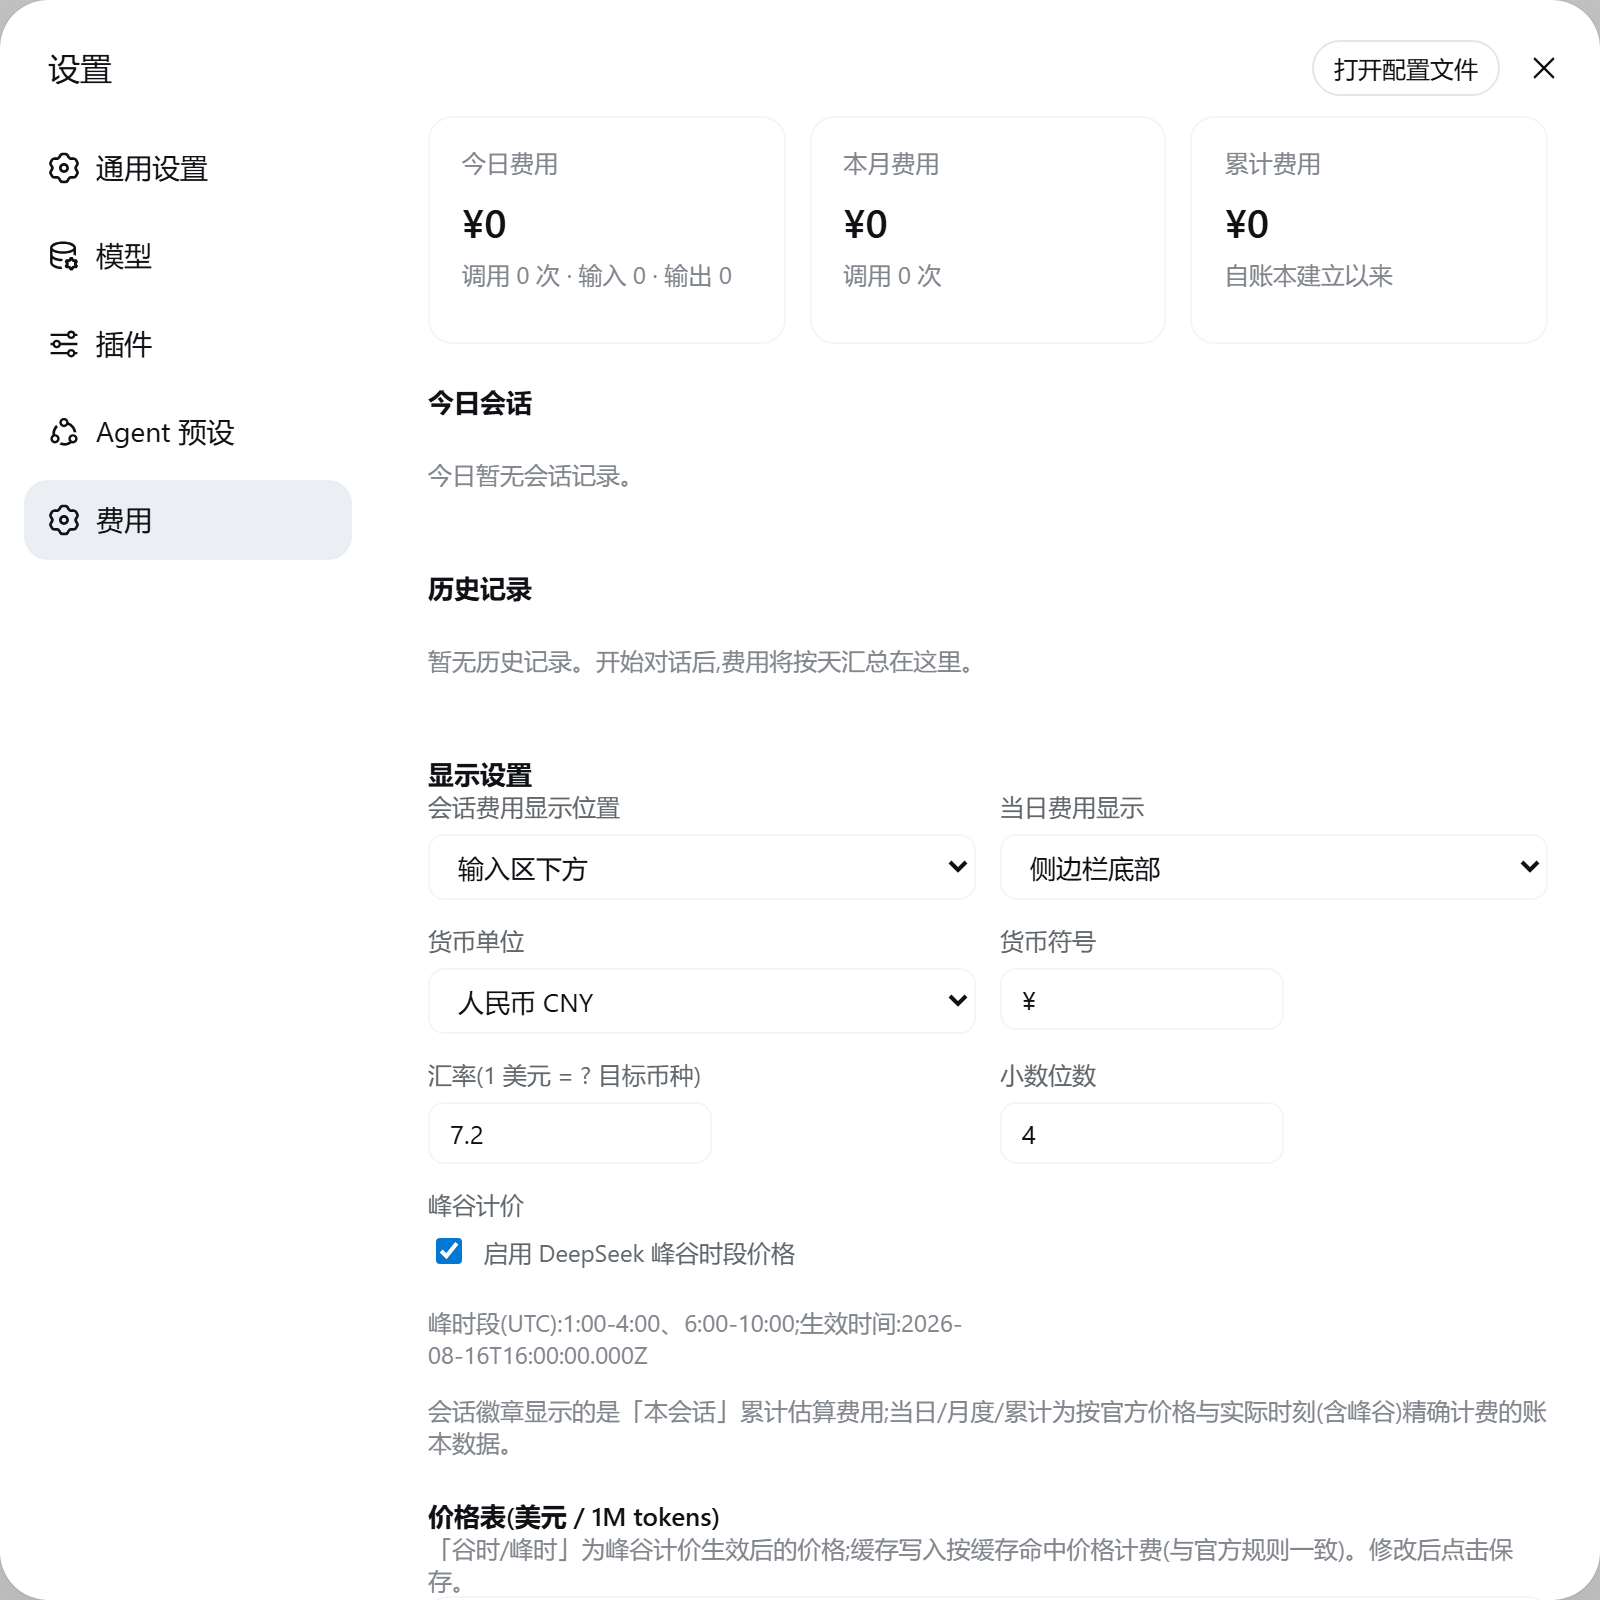
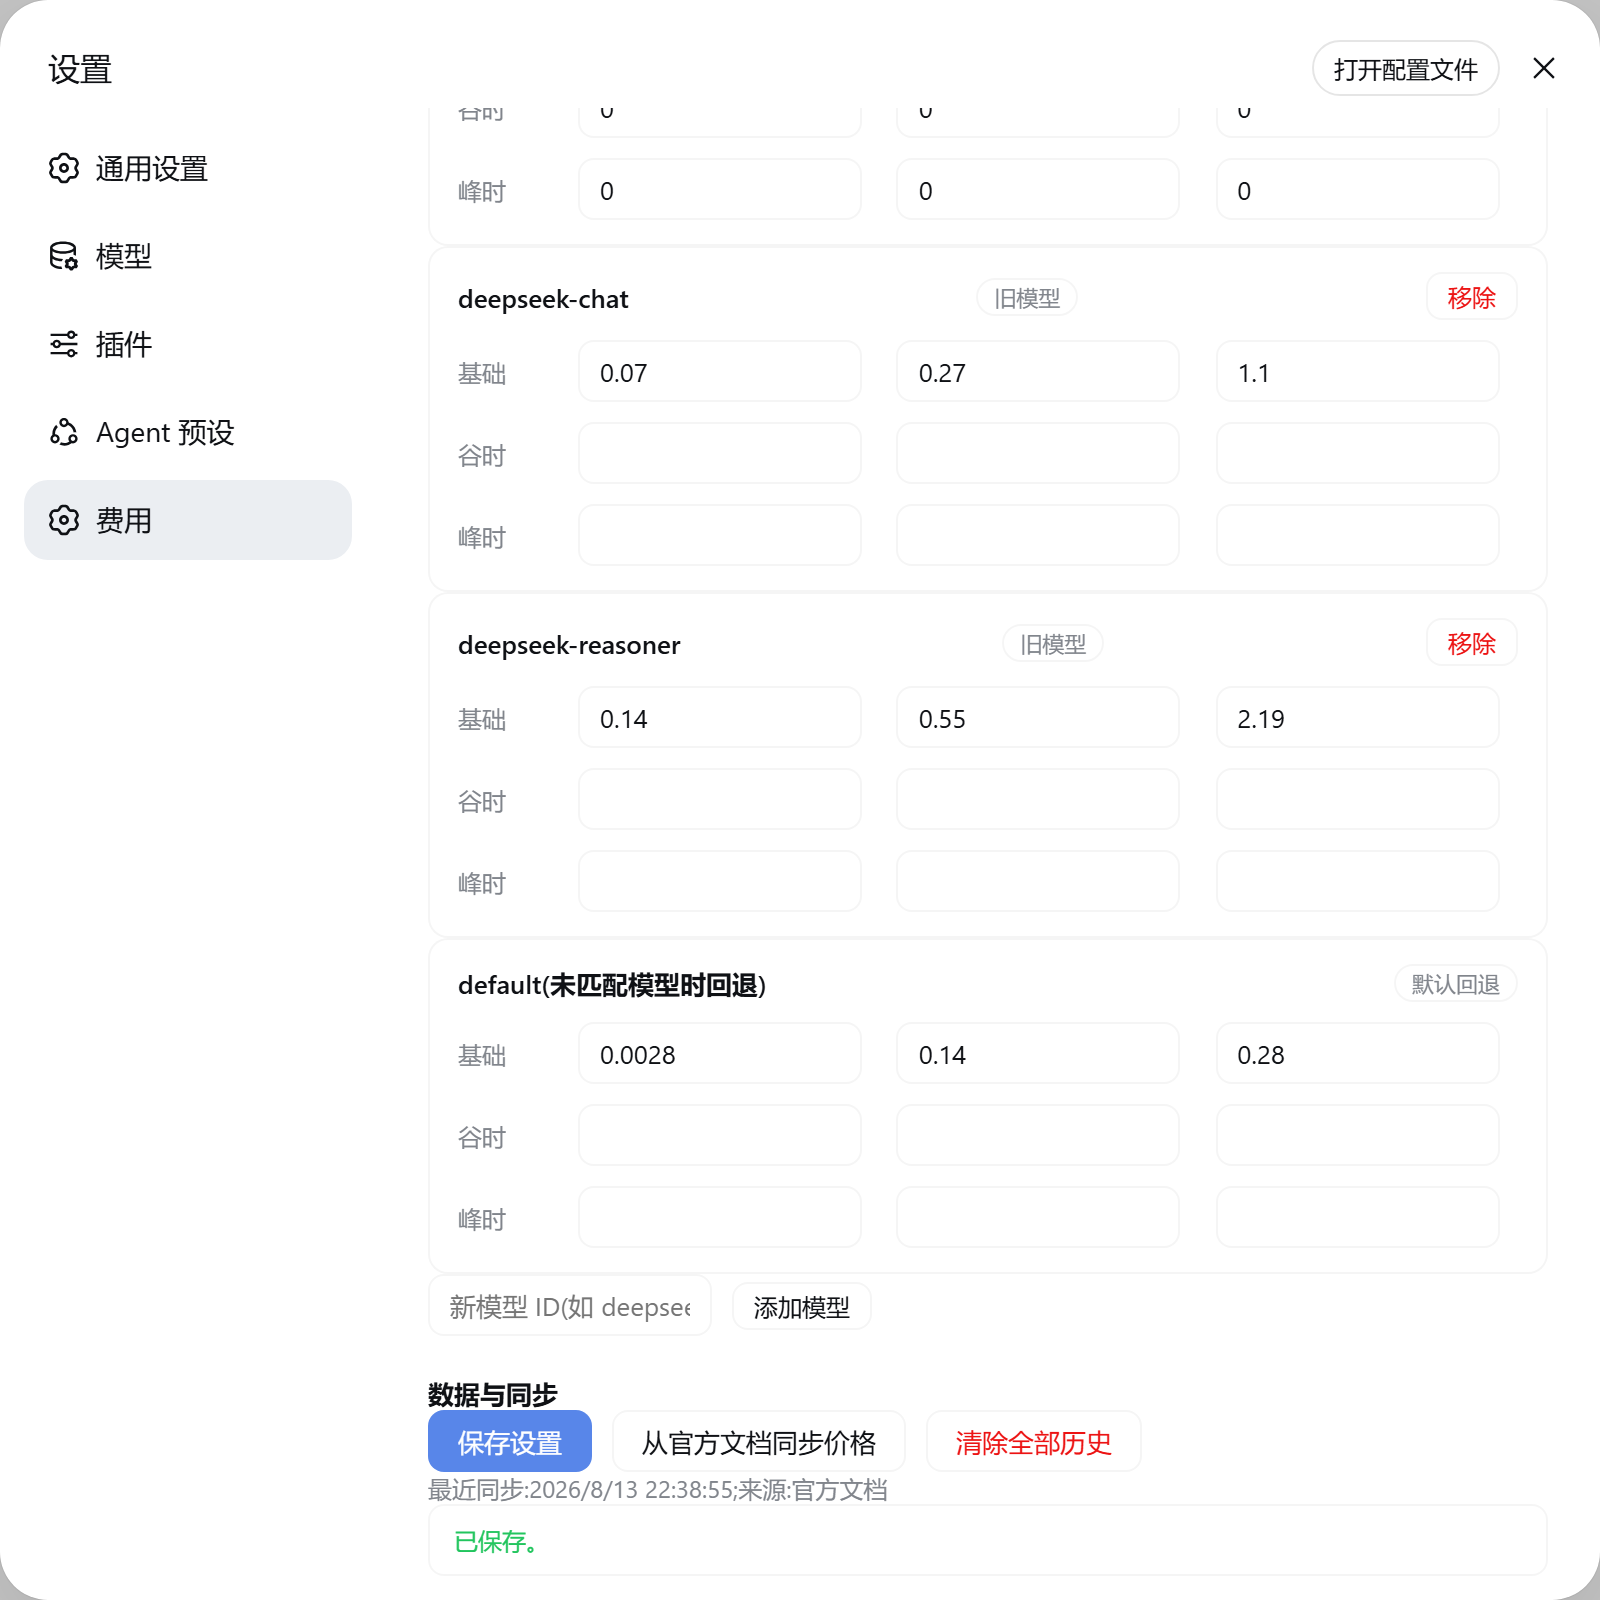
feat: 预算面板与 token 分项显示(v0.2.0)
- 设置页顶部新增预算面板:启用开关、额度(按显示币种)、周期(今日/本月/累计),
  已用金额与已用%进度条,>=80% 预警、>=100% 超支
- 输入/缓存/输出 token 在卡片、侧边栏提示、会话徽章、历史表中分开显示
- 缓存读写按命中价计费,界面显式标注
- 更新 README/CHANGELOG 与截图,版本升至 0.2.0

diff --git a/lib/client.js b/lib/client.js
@@ -74,7 +74,16 @@ window.__ModuleLoader__.load({
       '.cm-msg.ok{color:var(--dsw-alias-state-success-primary)}',
       '.cm-msg.err{color:var(--dsw-alias-state-error-primary)}',
       '.cm-hint{font-size:12px;color:var(--dsw-alias-label-tertiary)}',
-      '@media (max-width:640px){.cm-cards{grid-template-columns:1fr}.cm-grid{grid-template-columns:1fr}}',
+      '.cm-budget{border:1px solid var(--dsw-alias-border-l1);border-radius:12px;padding:14px 16px;background:var(--dsw-alias-bg-layer-1);display:flex;flex-direction:column;gap:10px}',
+      '.cm-budget-head{display:flex;align-items:center;justify-content:space-between;gap:8px}',
+      '.cm-budget-bar{height:8px;border-radius:999px;background:var(--dsw-alias-bg-layer-3);overflow:hidden}',
+      '.cm-budget-fill{height:100%;border-radius:999px;background:var(--dsw-alias-state-business-primary);transition:width .3s ease}',
+      '.cm-budget-fill.warn{background:var(--dsw-alias-state-warn-primary)}',
+      '.cm-budget-fill.over{background:var(--dsw-alias-state-error-primary)}',
+      '.cm-budget-line{font-size:13px;color:var(--dsw-alias-label-secondary)}',
+      '.cm-budget-line.over{color:var(--dsw-alias-state-error-primary)}',
+      '.cm-budget-controls{display:grid;grid-template-columns:repeat(2,minmax(180px,1fr));gap:12px}',
+      '@media (max-width:640px){.cm-cards{grid-template-columns:1fr}.cm-grid{grid-template-columns:1fr}.cm-budget-controls{grid-template-columns:1fr}}',
     ].join('\n')
     const cssTagId = 'dsh-cost-meter/client.css'
     if (typeof document !== 'undefined' && document.querySelector('style[data-plugin-css=' + JSON.stringify(cssTagId) + ']') === null) {
@@ -181,6 +190,11 @@ window.__ModuleLoader__.load({
         historyDays: needNum(v.historyDays, path + '.historyDays'),
         fetchedAt: v.fetchedAt === null || v.fetchedAt === undefined ? null : needStr(v.fetchedAt, path + '.fetchedAt'),
         priceSource: typeof v.priceSource === 'string' ? v.priceSource : 'bundled',
+        budget: {
+          enabled: v.budget?.enabled === true,
+          amount: typeof v.budget?.amount === 'number' && Number.isFinite(v.budget.amount) ? v.budget.amount : 100,
+          period: v.budget?.period === 'day' || v.budget?.period === 'all' ? v.budget.period : 'month',
+        },
       }
     }
     function parseState(v, path) {
@@ -286,9 +300,8 @@ window.__ModuleLoader__.load({
       const cacheWrite = Math.max(0, Number(buckets.cacheWrite) || 0)
       return (input * tier.cacheMiss + output * tier.output + (cacheRead + cacheWrite) * tier.cacheHit) / 1_000_000
     }
-    function formatMoneyUsd(usd, config) {
-      const rate = Number(config?.exchangeRate)
-      const value = usd * (Number.isFinite(rate) && rate > 0 ? rate : 1)
+    /** 已换算币种金额 → 显示字符串(符号 + 可调小数位)。 */
+    function formatMoneyValue(value, config) {
       const symbol = typeof config?.symbol === 'string' && config.symbol.length > 0 ? config.symbol : '$'
       const decimals = Math.max(0, Math.min(10, Math.floor(Number(config?.decimals) || 2)))
       let effective = decimals
@@ -296,6 +309,11 @@ window.__ModuleLoader__.load({
       const fixed = value.toFixed(effective)
       const trimmed = fixed.includes('.') ? fixed.replace(/0+$/, '').replace(/\.$/, '') : fixed
       return symbol + trimmed
+    }
+    function formatMoneyUsd(usd, config) {
+      const rate = Number(config?.exchangeRate)
+      const value = usd * (Number.isFinite(rate) && rate > 0 ? rate : 1)
+      return formatMoneyValue(value, config)
     }
     function formatTokens(n) {
       const v = Math.max(0, Number(n) || 0)
@@ -371,8 +389,8 @@ window.__ModuleLoader__.load({
       if (!usage || !config || (input + (usage?.output ?? 0)) === 0) return null
       const detail = [
         '本会话费用(按当前价格估算)',
-        '输入 ' + formatTokens(input) + ' · 输出 ' + formatTokens(usage.output ?? 0),
-        '缓存命中 ' + formatTokens(usage.cacheRead ?? 0),
+        '输入 ' + formatTokens(usage?.input ?? 0) + ' · 缓存 ' + formatTokens((usage?.cacheRead ?? 0) + (usage?.cacheWrite ?? 0)) + ' · 输出 ' + formatTokens(usage?.output ?? 0),
+        '缓存:读 ' + formatTokens(usage?.cacheRead ?? 0) + ' · 写 ' + formatTokens(usage?.cacheWrite ?? 0) + '(写入按命中价计费)',
         '费用 ' + formatMoneyUsd(cost, config),
       ].join(';')
       return el(Tooltip, { label: detail, side: 'top', delayMs: 500 },
@@ -384,13 +402,15 @@ window.__ModuleLoader__.load({
       const costStore = props.useCost ? props.useCost(s => s) : undefined
       const config = costStore?.state?.config
       if (!usage || !config) return null
-      const input = billedInput(usage)
+      const input = usage.input ?? 0
+      const cache = (usage.cacheRead ?? 0) + (usage.cacheWrite ?? 0)
       const output = usage.output ?? 0
-      if (input + output === 0) return null
+      if (input + cache + output === 0) return null
       const cost = usageCost(usage, config)
       return el('div', { className: 'cm-root' },
         '本会话 ' + formatMoneyUsd(cost, config)
         + ' · 输入 ' + formatTokens(input)
+        + ' · 缓存 ' + formatTokens(cache)
         + ' · 输出 ' + formatTokens(output))
     }
 
@@ -403,7 +423,7 @@ window.__ModuleLoader__.load({
       const { today, config } = state
       const detail = [
         '今日费用(按官方价格精确计费)',
-        '调用 ' + today.calls + ' 次 · 输入 ' + formatTokens(today.input + today.cacheRead + today.cacheWrite) + ' · 输出 ' + formatTokens(today.output),
+        '调用 ' + today.calls + ' 次 · 输入 ' + formatTokens(today.input) + ' · 缓存 ' + formatTokens(today.cacheRead + today.cacheWrite) + ' · 输出 ' + formatTokens(today.output),
         '本月 ' + formatMoneyUsd(state.month.cost, config),
         '累计 ' + formatMoneyUsd(state.total.cost, config),
       ].join(';')
@@ -429,12 +449,13 @@ window.__ModuleLoader__.load({
         el('table', { className: 'cm-table' },
           el('thead', null, el('tr', null,
             el('th', null, '日期'), el('th', { className: 'num' }, '调用'),
-            el('th', { className: 'num' }, '输入 tok'), el('th', { className: 'num' }, '输出 tok'),
+            el('th', { className: 'num' }, '输入 tok'), el('th', { className: 'num' }, '缓存 tok'), el('th', { className: 'num' }, '输出 tok'),
             el('th', { className: 'num' }, '费用'))),
           el('tbody', null, rows.map(day => el('tr', { key: day.date },
             el('td', null, day.date),
             el('td', { className: 'num' }, String(day.calls)),
-            el('td', { className: 'num' }, formatTokens(day.input + day.cacheRead + day.cacheWrite)),
+            el('td', { className: 'num' }, formatTokens(day.input)),
+            el('td', { className: 'num' }, formatTokens(day.cacheRead + day.cacheWrite)),
             el('td', { className: 'num' }, formatTokens(day.output)),
             el('td', { className: 'num' }, formatMoneyUsd(day.cost, state.config)))))))
     }
@@ -447,12 +468,13 @@ window.__ModuleLoader__.load({
         el('table', { className: 'cm-table' },
           el('thead', null, el('tr', null,
             el('th', null, '会话'), el('th', { className: 'num' }, '调用'),
-            el('th', { className: 'num' }, '输入 tok'), el('th', { className: 'num' }, '输出 tok'),
+            el('th', { className: 'num' }, '输入 tok'), el('th', { className: 'num' }, '缓存 tok'), el('th', { className: 'num' }, '输出 tok'),
             el('th', { className: 'num' }, '费用'))),
           el('tbody', null, sessions.map(session => el('tr', { key: session.id },
             el('td', null, session.id.slice(0, 14) + '…'),
             el('td', { className: 'num' }, String(session.calls)),
-            el('td', { className: 'num' }, formatTokens(session.input + session.cacheRead + session.cacheWrite)),
+            el('td', { className: 'num' }, formatTokens(session.input)),
+            el('td', { className: 'num' }, formatTokens(session.cacheRead + session.cacheWrite)),
             el('td', { className: 'num' }, formatTokens(session.output)),
             el('td', { className: 'num' }, formatMoneyUsd(session.cost, state.config)))))))
     }
@@ -461,6 +483,67 @@ window.__ModuleLoader__.load({
       CNY: { symbol: '¥', decimals: 4, exchangeRate: 7.2 },
       USD: { symbol: '$', decimals: 6, exchangeRate: 1 },
       EUR: { symbol: '€', decimals: 6, exchangeRate: 0.92 },
+    }
+
+    // ── 预算面板(设置页顶部) ──────────────────────────────────────────────
+
+    const BUDGET_PERIOD_LABEL = { day: '今日', month: '本月', all: '累计' }
+
+    function BudgetPanel(props) {
+      const { state, draft, setDraft } = props
+      const config = state.config
+      const budget = draft?.budget ?? config.budget
+      const periodCost = budget.period === 'day' ? state.today.cost
+        : budget.period === 'all' ? state.total.cost
+          : state.month.cost
+      const rate = Number(config.exchangeRate)
+      const used = periodCost * (Number.isFinite(rate) && rate > 0 ? rate : 1)
+      const amount = Math.max(0, Number(budget.amount) || 0)
+      const pct = budget.enabled && amount > 0 ? Math.min(999, used / amount * 100) : null
+      const level = pct === null ? 'ok' : pct >= 100 ? 'over' : pct >= 80 ? 'warn' : 'ok'
+      const setBudget = (field, value) => {
+        if (draft === null) return
+        setDraft({ ...draft, budget: { ...(draft.budget ?? config.budget), [field]: value } })
+      }
+      const statusLine = budget.enabled && pct !== null
+        ? BUDGET_PERIOD_LABEL[budget.period] + '预算 ' + formatMoneyValue(amount, config)
+          + ' · 已用 ' + formatMoneyValue(used, config)
+          + ' · ' + pct.toFixed(1) + '%'
+          + (level === 'over' ? '(已超出)' : level === 'warn' ? '(接近上限)' : '')
+        : null
+      return el('div', { className: 'cm-budget' },
+        el('div', { className: 'cm-budget-head' },
+          el('h3', { className: 'cm-h' }, '预算'),
+          el('label', { className: 'cm-check' },
+            el('input', {
+              type: 'checkbox',
+              checked: budget.enabled === true,
+              onChange: event => setBudget('enabled', event.target.checked),
+            }),
+            el('span', null, '启用预算'))),
+        budget.enabled
+          ? el(Fragment, null,
+            el('div', { className: 'cm-budget-bar' },
+              el('div', {
+                className: 'cm-budget-fill ' + (level === 'ok' ? '' : level),
+                style: { width: (pct === null ? 0 : Math.min(100, pct)) + '%' },
+              })),
+            el('div', { className: 'cm-budget-line' + (level === 'over' ? ' over' : '') + ' cm-num' }, statusLine),
+            el('div', { className: 'cm-budget-controls' },
+              el('div', { className: 'cm-field' },
+                el('label', null, '预算额度(按显示币种)'),
+                numInput({ value: budget.amount }, v => setBudget('amount', v))),
+              el('div', { className: 'cm-field' },
+                el('label', null, '预算周期'),
+                el('select', {
+                  className: 'cm-input',
+                  value: budget.period,
+                  onChange: event => setBudget('period', event.target.value),
+                },
+                  el('option', { value: 'day' }, '今日'),
+                  el('option', { value: 'month' }, '本月'),
+                  el('option', { value: 'all' }, '累计')))))
+          : el('p', { className: 'cm-note' }, '未启用预算。启用后此处显示预算额度、已用金额与已用百分比(按当前币种换算)。'))
     }
 
     function numInput(props, onChange) {
@@ -619,11 +702,13 @@ window.__ModuleLoader__.load({
         : '未配置峰谷时段'
 
       return el('div', { className: 'cm-section' },
+        // 预算(顶部)
+        el(BudgetPanel, { state, draft, setDraft }),
         // 汇总卡片
         el('div', { className: 'cm-cards' },
-          el(Card, { title: '今日费用', value: formatMoneyUsd(state.today.cost, config), sub: '调用 ' + state.today.calls + ' 次 · 输入 ' + formatTokens(state.today.input + state.today.cacheRead + state.today.cacheWrite) + ' · 输出 ' + formatTokens(state.today.output) }),
-          el(Card, { title: '本月费用', value: formatMoneyUsd(state.month.cost, config), sub: '调用 ' + state.month.calls + ' 次' }),
-          el(Card, { title: '累计费用', value: formatMoneyUsd(state.total.cost, config), sub: '自账本建立以来' })),
+          el(Card, { title: '今日费用', value: formatMoneyUsd(state.today.cost, config), sub: '调用 ' + state.today.calls + ' 次 · 输入 ' + formatTokens(state.today.input) + ' · 缓存 ' + formatTokens(state.today.cacheRead + state.today.cacheWrite) + ' · 输出 ' + formatTokens(state.today.output) }),
+          el(Card, { title: '本月费用', value: formatMoneyUsd(state.month.cost, config), sub: '调用 ' + state.month.calls + ' 次 · 输入 ' + formatTokens(state.month.input) + ' · 缓存 ' + formatTokens(state.month.cacheRead + state.month.cacheWrite) + ' · 输出 ' + formatTokens(state.month.output) }),
+          el(Card, { title: '累计费用', value: formatMoneyUsd(state.total.cost, config), sub: '自账本建立以来 · 调用 ' + state.total.calls + ' 次' })),
         // 今日会话
         el('div', null,
           el('h3', { className: 'cm-h' }, '今日会话'),
@@ -693,7 +778,7 @@ window.__ModuleLoader__.load({
                 }),
                 el('span', null, '启用 DeepSeek 峰谷时段价格')),
               el('p', { className: 'cm-hint' }, peakText))),
-          el('p', { className: 'cm-note' }, '会话徽章显示的是「本会话」累计估算费用;当日/月度/累计为按官方价格与实际时刻(含峰谷)精确计费的账本数据。')),
+          el('p', { className: 'cm-note' }, '会话徽章显示的是「本会话」累计估算费用;当日/月度/累计为按官方价格与实际时刻(含峰谷)精确计费的账本数据。输入/缓存/输出 token 分开统计,缓存读写按命中价计费。')),
         // 价格表
         el('div', null,
           el('h3', { className: 'cm-h' }, '价格表(美元 / 1M tokens)'),

diff --git a/lib/store.js b/lib/store.js
@@ -39,6 +39,11 @@ export function defaultConfig() {
       ),
       default: { ...DEFAULT_PRICE_TABLE.default },
     },
+    budget: {
+      enabled: false, // 启用预算
+      amount: 100, // 预算额度(按显示币种)
+      period: 'month', // day(今日) | month(本月) | all(累计)
+    },
     historyDays: DEFAULT_HISTORY_DAYS,
     fetchedAt: null, // 最近一次官方价格同步时间(ISO)
     priceSource: 'bundled', // bundled | official
@@ -106,6 +111,17 @@ export function applyConfigPatch(current, patch) {
   if (!Array.isArray(candidate.peakWindows)) errors.push('peakWindows 必须是数组')
   const historyDays = Number(candidate.historyDays)
   if (!Number.isInteger(historyDays) || historyDays < 7 || historyDays > 3650) errors.push('historyDays 必须是 7-3650 的整数')
+  // 预算校验。
+  const budget = candidate.budget
+  if (budget === null || typeof budget !== 'object' || Array.isArray(budget)) {
+    errors.push('budget 非法')
+  } else {
+    if (typeof budget.enabled !== 'boolean') errors.push('budget.enabled 必须是布尔值')
+    const amount = Number(budget.amount)
+    if (!Number.isFinite(amount) || amount < 0) errors.push('budget.amount 必须为非负数')
+    else budget.amount = amount
+    if (!['day', 'month', 'all'].includes(budget.period)) errors.push('budget.period 必须是 day / month / all')
+  }
   // 价格表规范化。
   const prices = candidate.prices
   if (prices === null || typeof prices !== 'object') {

diff --git a/lib/typert.host.js b/lib/typert.host.js
@@ -58,6 +58,11 @@ const configSchema = z.object({
     models: z.record(z.string(), priceSchema),
     default: priceSchema,
   }),
+  budget: z.object({
+    enabled: z.boolean(),
+    amount: num,
+    period: z.enum(['day', 'month', 'all']),
+  }),
   historyDays: num,
   fetchedAt: z.union([z.string(), z.null()]),
   priceSource: z.string(),

diff --git a/CHANGELOG.md b/CHANGELOG.md
@@ -2,6 +2,16 @@
 
 本文件按 [Keep a Changelog](https://keepachangelog.com/zh-CN/1.1.0/) 格式维护。
 
+## [0.2.0] - 2026-08-13
+
+### 新增
+
+- 预算:设置页顶部新增「预算」面板,支持启用/关闭、预算额度(按显示币种)与周期(今日/本月/累计),显示已用金额与已用百分比进度条(≥80% 橙色预警、≥100% 红色超支)。
+
+### 变更
+
+- 输入/缓存/输出 token 在汇总卡片、侧边栏提示、会话徽章与历史表中分开显示(此前缓存并入输入);缓存读写按命中价计费,界面显式标注。
+
 ## [0.1.0] - 2026-08-13
 
 ### 新增
